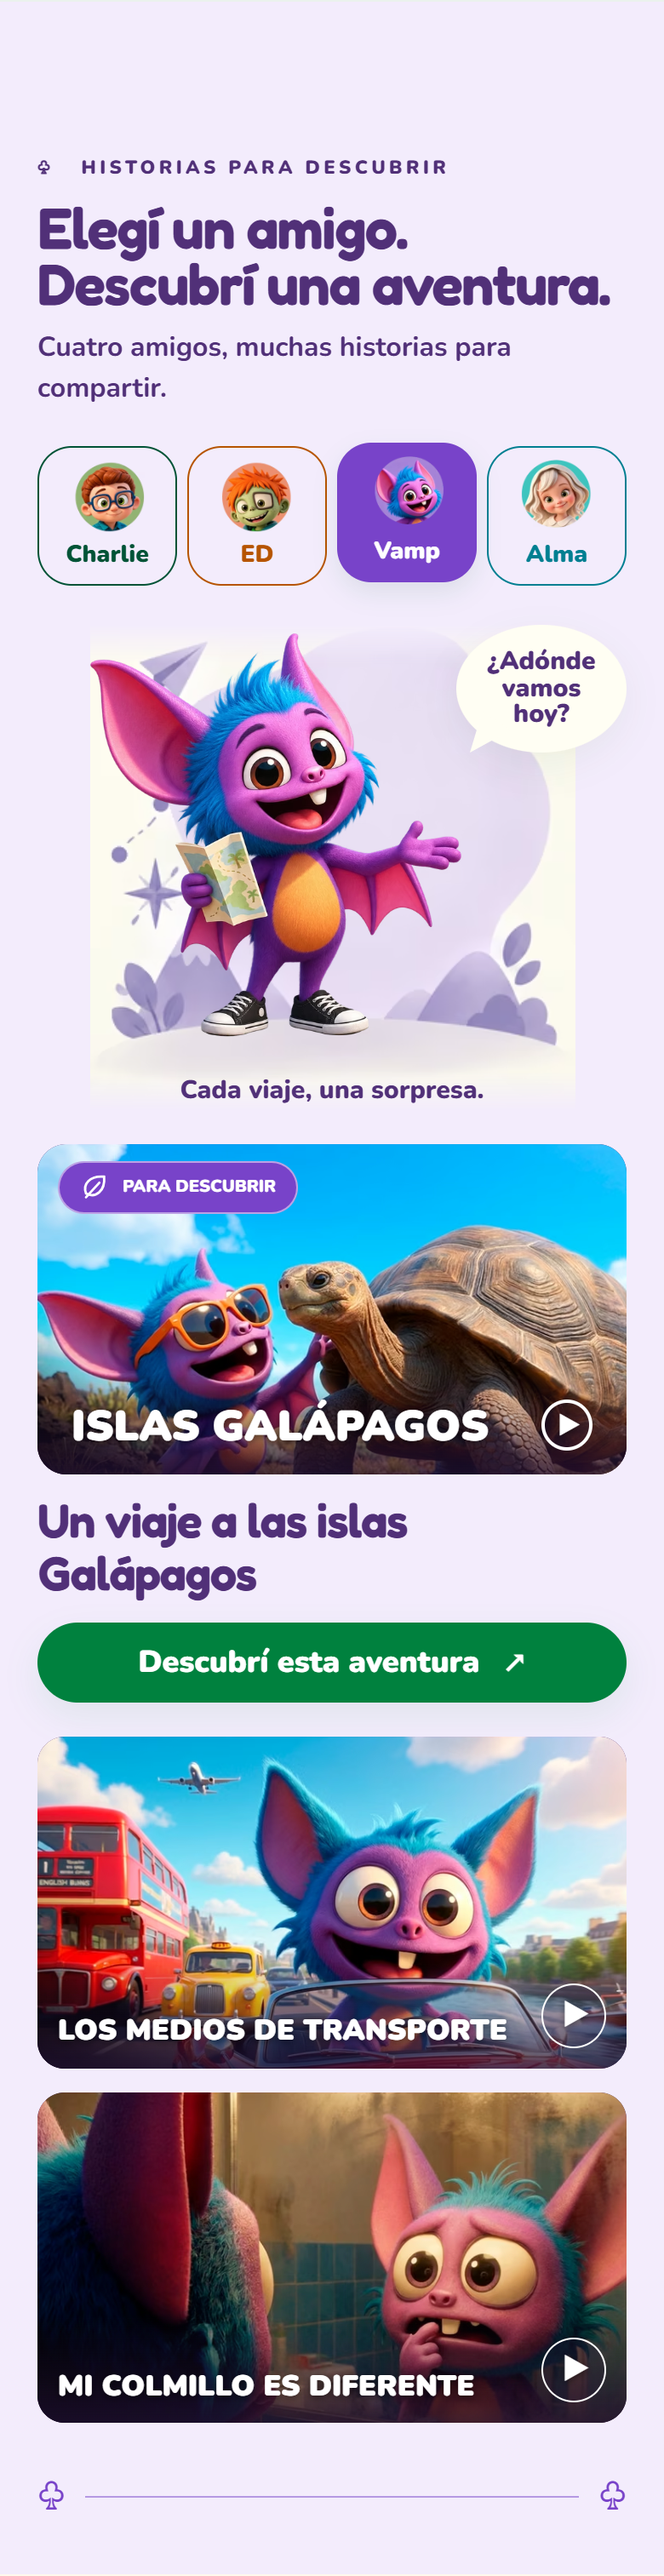
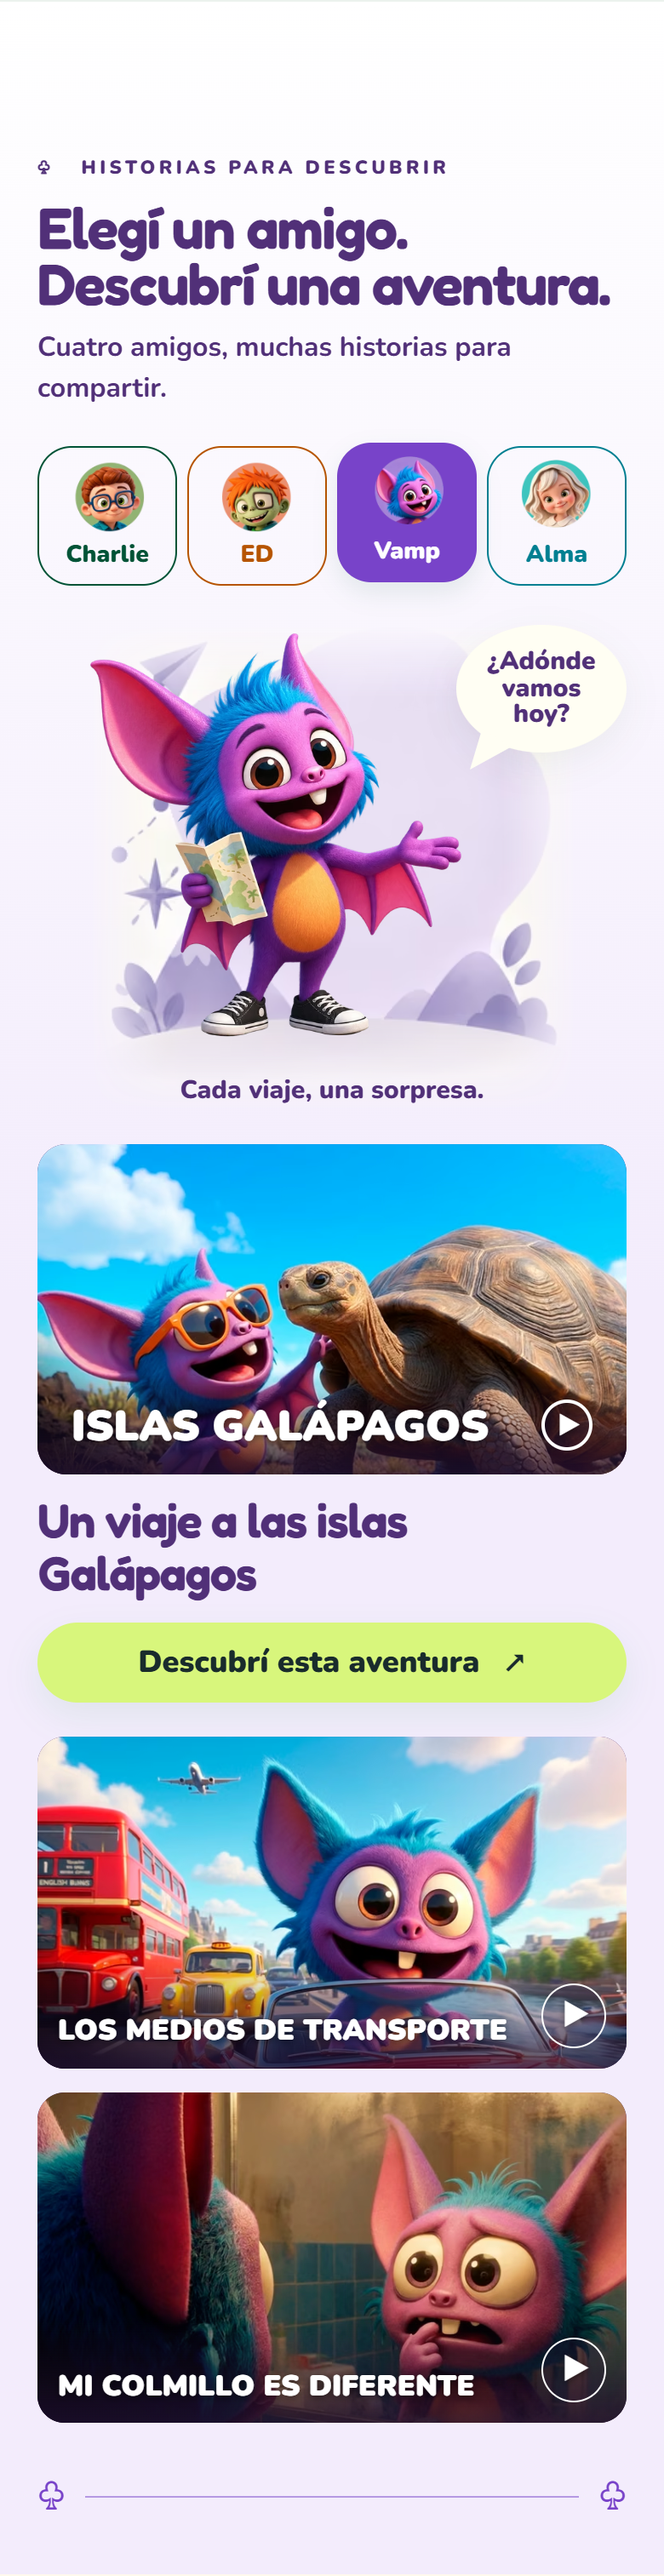
Blend mobile character backgrounds into section colors

diff --git a/aventuras.css b/aventuras.css
@@ -41,3 +41,9 @@
 @media(max-width:480px){.adventure-secondary{grid-template-columns:1fr;gap:14px}.adventure-secondary figcaption{font-size:17px;padding:12px;min-height:29%}.adventure-secondary .adventure-play{width:38px;height:38px;font-size:18px}.adventure-secondary .adventure-card{border-radius:16px}}
 
 @media(max-width:480px){.adventure-portrait>picture img{width:80%;margin-right:auto}.adventure-speech{right:0;top:0;width:100px;padding:14px 9px;font-size:15px}}
+
+/* En mobile, integrar el fondo cuadrado sin dejar bordes visibles. */
+@media(max-width:900px){
+  .adventures{background:linear-gradient(180deg,#fff 0,var(--ad-surface) 760px)}
+  .adventure-friend::before{width:min(100%,285px);margin-inline:auto;background-size:100% 100%;-webkit-mask-image:linear-gradient(to right,transparent,#000 15%,#000 85%,transparent),linear-gradient(to bottom,transparent,#000 15%,#000 80%,transparent);-webkit-mask-composite:source-in;mask-image:linear-gradient(to right,transparent,#000 15%,#000 85%,transparent),linear-gradient(to bottom,transparent,#000 15%,#000 80%,transparent);mask-composite:intersect}
+}
